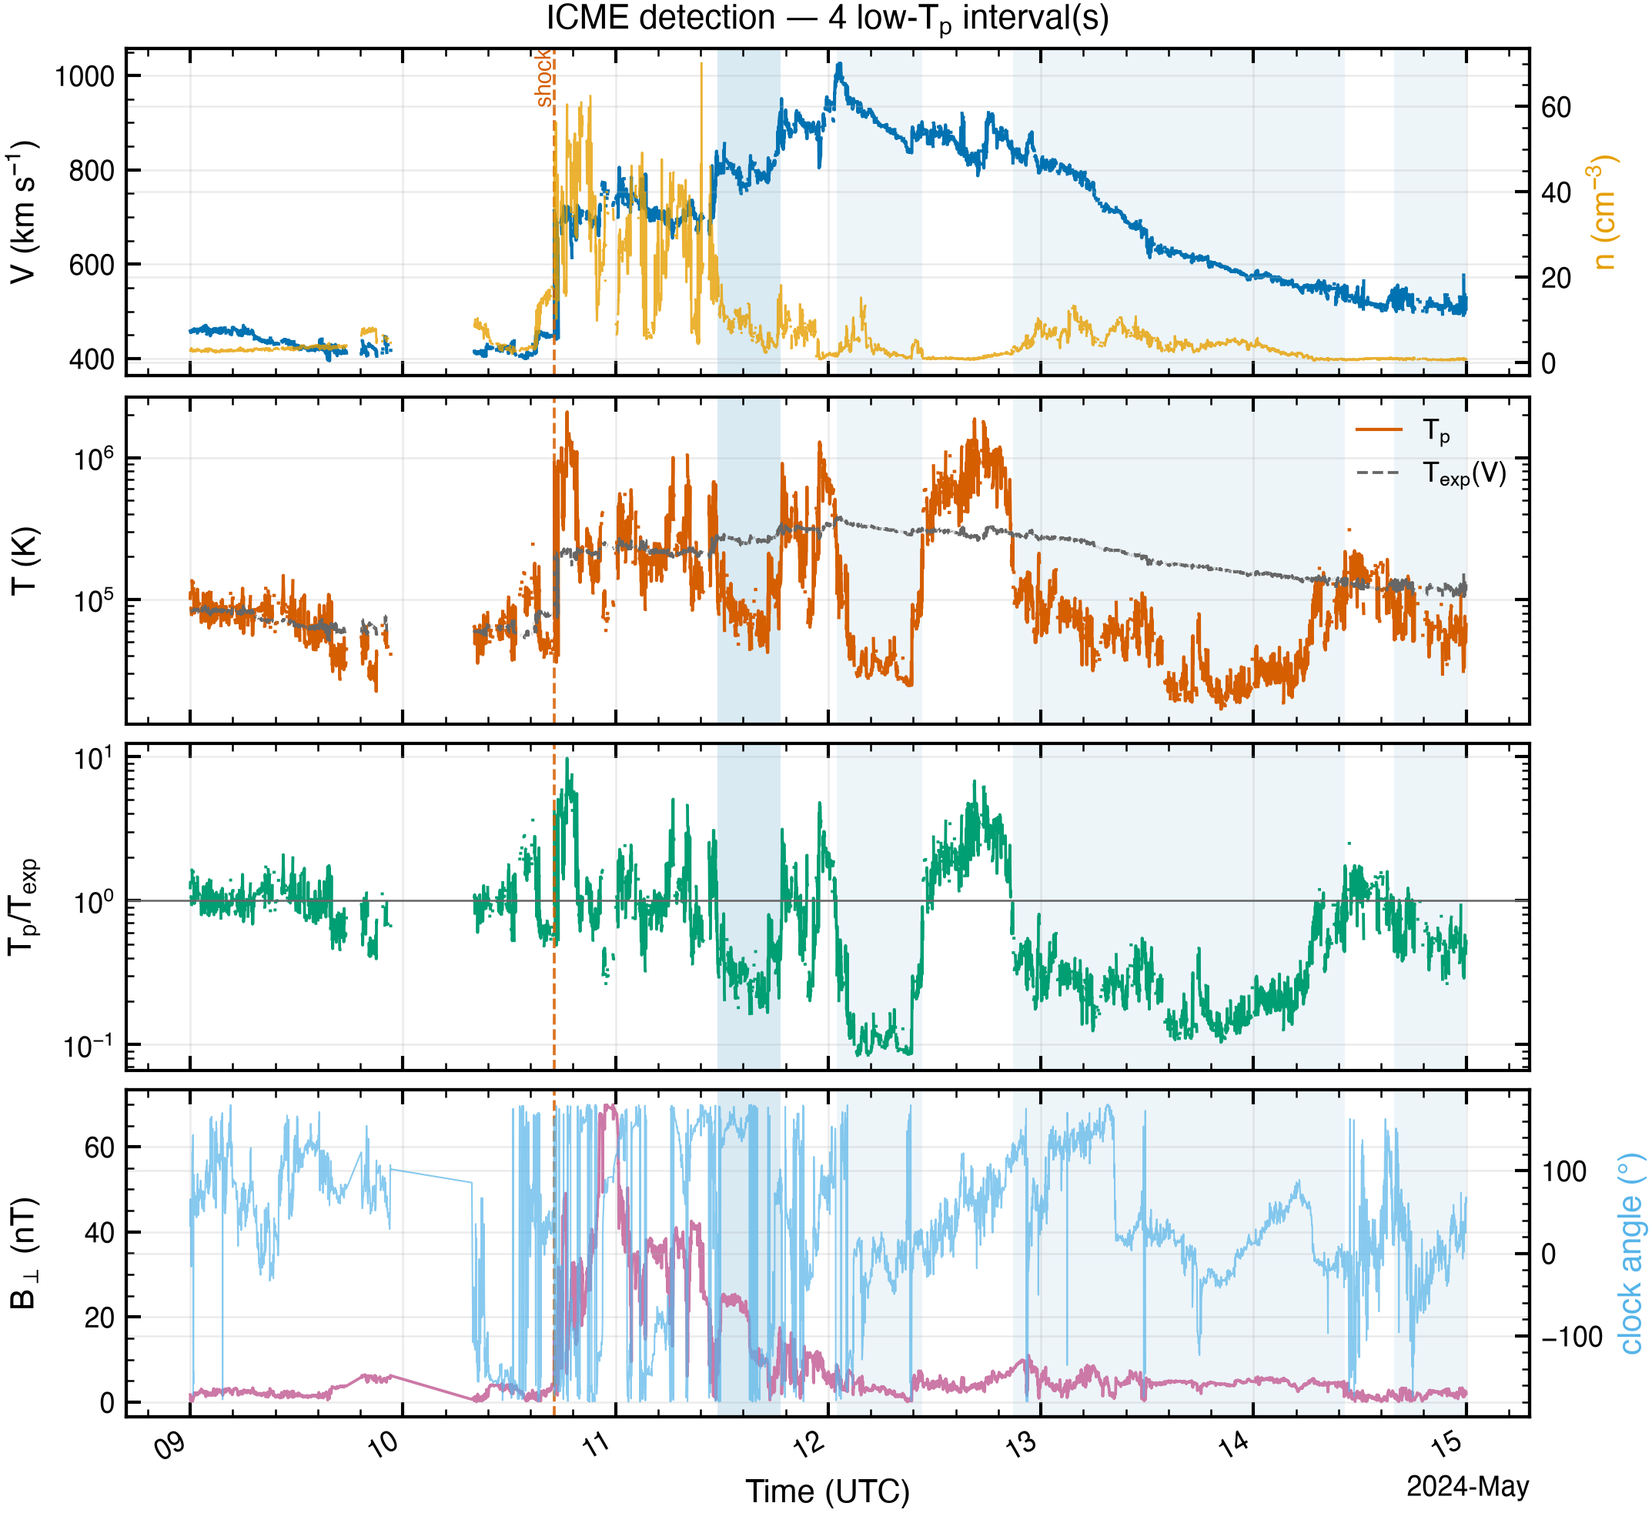
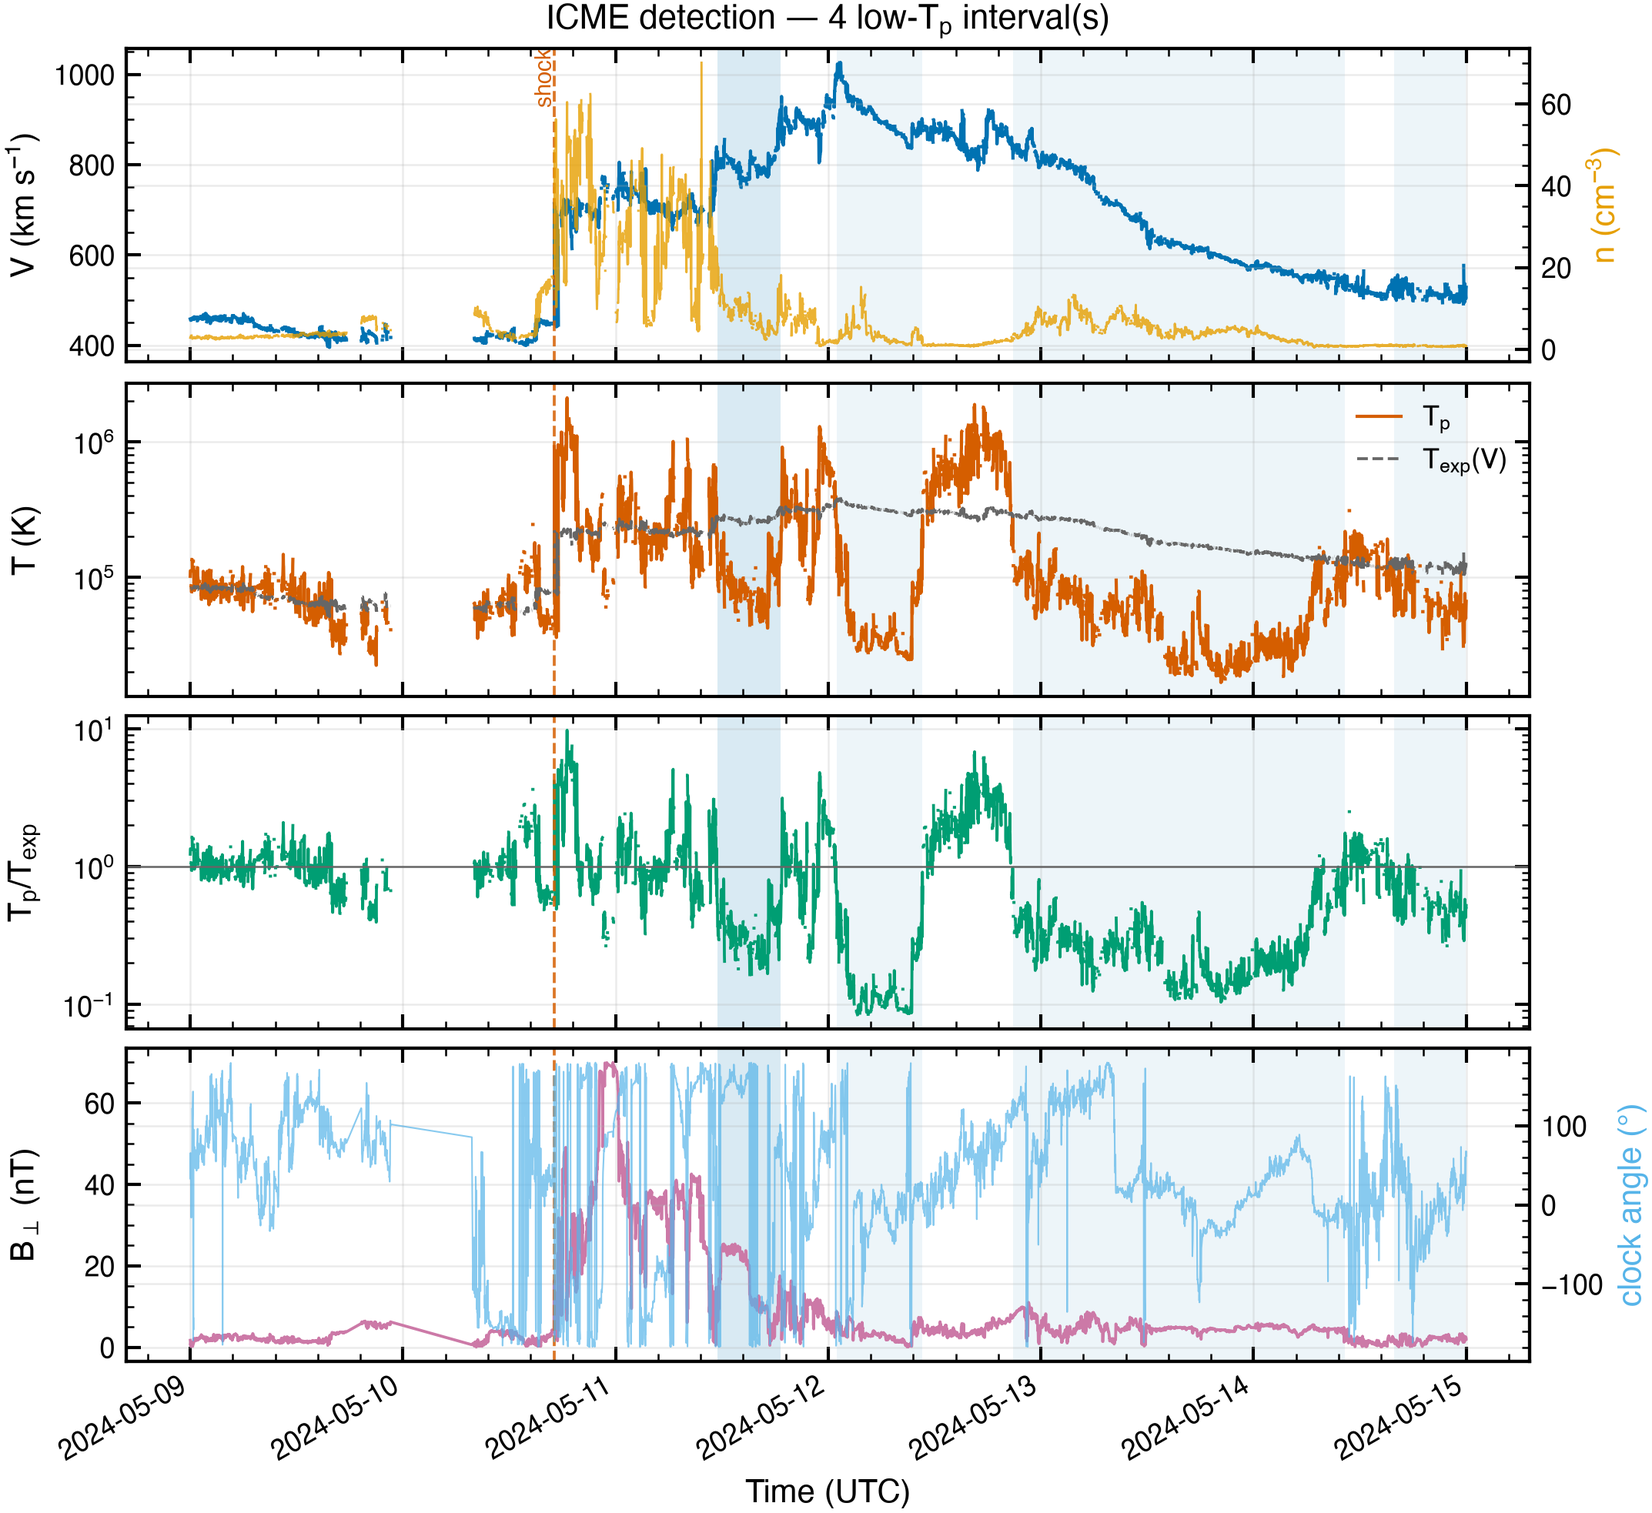
analysis: same claim audit on the May reproduction
Four claims of the same shape as the ones corrected in the October analysis:
statements that reach one step past what was measured.

1. THE SHEATH ATTRIBUTION now carries its population context and its rate
   check. Re-ran S6_icme under the corrected detect_icme: the numbers are
   unchanged (sheath 2024-05-10 17:05, 18.4 h) because the May window is
   narrow enough that the first shock IS the driving one — but that was luck,
   not design, and worth confirming rather than assuming. The attribution now
   also states that the sheath wins on RATE as well as total (20.62 against
   12.49 nT/h), so it is not the longer interval accumulating more, and links
   the 8-sheath/8-ejecta population result so the single event is not read as
   a pattern.

2. "EVERY MEASURED PLANE-OF-SKY SPEED LANDS BELOW ITS CONE FIT" was an n=2
   "every". Added a third case from outside the analysis: the 2024-10-03 X9.0
   CME measures 667.9 km/s plane-of-sky against DONKI cone fits of 822 and
   863. Three for three, now stated as a direction rather than a law. Also
   softened "would have meant the tracker locked onto something other than
   the front" — a cone fit is a model fit with its own error and can be wrong
   too.

3. "THAT AGREEMENT IS INDEPENDENT, NOT CIRCULAR" for the launch-time
   extrapolation matching the flare onset. Not fully independent: the search
   window was opened at the flare peak, so the frames that produced the fit
[…]

diff --git a/users/cayoung/analyses/2024-05-gannon-notebook-repro/render_report.py b/users/cayoung/analyses/2024-05-gannon-notebook-repro/render_report.py
@@ -311,12 +311,19 @@ add(f"\nAudits: `{aud('S4_track_cme1')}`/`{aud('S4_fit_cme1')}` and "
     f"`{aud('S4_track_cme2')}`/`{aud('S4_fit_cme2')}`. The position angles "
     "were chosen automatically, by scoring sectors on monotonic outward "
     "motion rather than on scatter.\n")
-add("**The launch-time column is the check that the tracker found the "
+add("**The launch-time column is a check that the tracker found the "
     "eruption and not a streamer.** The fit extrapolates back to 1 R⊙ at "
     f"{str(g('S4_fit_cme1','extrapolated_launch_1rsun'))[11:19]} for CME 1 "
     f"and {str(g('S4_fit_cme2','extrapolated_launch_1rsun'))[11:19]} for "
     "CME 2 — each within minutes of its flare's onset. The tracker never "
-    "sees the X-ray data, so that agreement is independent, not circular.\n")
+    "reads the X-ray series, and the extrapolation follows from the fitted "
+    "heights alone.\n")
+add("**It is not a fully independent confirmation, though.** The search "
+    "window was opened at the flare peak (see below), so the frames that "
+    "produced the fit were selected using the very time the extrapolation "
+    "is being compared against. A badly wrong tracker would still have to "
+    "produce a wrong slope to miss, so the check has teeth — but call it a "
+    "consistency check rather than an independent one.\n")
 add("**Two things had to be got right, and both failed the other way "
     "first.** The noise reference has to be the same radius at other "
     "position angles: an outer-annulus σ is contaminated once the CME "
@@ -345,13 +352,18 @@ for tag, name in (("cme1", "CME 1"), ("cme2", "CME 2")):
         + (f"{fmt(min(c),4)}–{fmt(max(c),4)} km s⁻¹ ({len(c)} fits)"
            if c else "—")
         + f" | {_NB[tag]} km s⁻¹ |")
-add("\n**Every measured plane-of-sky speed lands below its cone fit, and "
-    "that is the expected result, not a discrepancy.** Both of these are "
-    "Earth-directed halos, so the plane-of-sky projection sees the front "
-    "edge-on and understates the radial speed — the measurement is a lower "
-    "bound by construction. A plane-of-sky speed coming out *above* a cone "
-    "fit would have meant the tracker had locked onto something other than "
-    "the front. `run_validation.py cmetrack` pins that inequality.\n")
+add("\n**Both measured plane-of-sky speeds land below their cone fits, "
+    "which is the expected direction.** These are Earth-directed halos, so "
+    "the plane-of-sky projection sees the front edge-on and understates the "
+    "radial speed — the measurement is a lower bound by construction. A "
+    "third case outside this analysis agrees: the 2024-10-03 X9.0 CME "
+    "measures 667.9 km s⁻¹ plane-of-sky against DONKI cone fits of 822 and "
+    "863 km s⁻¹ for the same event (audit `477ff359b0af`).\n")
+add("Three for three is a direction, not a law. A plane-of-sky speed above "
+    "a cone fit would be worth investigating — most likely a tracker locked "
+    "onto the wrong feature, but a cone fit is a model fit with its own "
+    "error and can also be wrong. `run_validation.py cmetrack` pins the "
+    "inequality for the 2024-05-08 event so a regression would surface it.\n")
 add("So the notebook's 950 and 1100 km s⁻¹ are defensible numbers for the "
     "radial speed — they sit inside the cone-model distribution — but its "
     "own code could not have produced them, and they are not what a "
@@ -488,11 +500,18 @@ add("**DSCOVR's Faraday cup under-reads this storm, and its own "
     "those minutes. Restricting to quality-0 samples changes the maximum "
     "not at all. The only signal in the file is "
     f"`reduced_proton_quality_flag`, set on **{(_frac or 0) * 100:.0f}%** of "
-    "this window. So DSCOVR plasma is good for density and structure and "
-    "is the wrong source for a storm speed peak — which is also why the "
-    "earlier refusal was worth keeping rather than papering over with SWPC "
-    "real-time. `run_validation.py dscovrl2` pins the under-read as well as "
-    "the capability, so a reprocessing that fixes it will fail the check.\n")
+    "this window. It is the wrong source for a storm speed peak — which is "
+    "also why the earlier refusal was worth keeping rather than papering "
+    "over with SWPC real-time. `run_validation.py dscovrl2` pins the "
+    "under-read as well as the capability, so a reprocessing that fixes it "
+    "will fail the check.\n")
+add("**Whether its density is equally affected is untested here.** The cup "
+    f"reports {fmt(g('S5x_n_dscovr_l2','value'),4)} cm⁻³, the highest of any "
+    "route, and a flag saying the proton fit was degraded is a reason to "
+    "doubt every moment derived from that fit, not only the speed. Nothing "
+    "above establishes the density is sound — it simply was not the quantity "
+    "checked against another spacecraft. Treat it with the same suspicion "
+    "until it is.\n")
 add("**|B| is the check that the routes agree.** Five routes across three "
     "spacecraft (ACE, DSCOVR, Wind — OMNI is merged from them, not "
     "independent) put the maximum inside "
@@ -580,6 +599,27 @@ if ic:
             "without separating the two, and the distinction matters for "
             "forecasting: sheath Bz is not predictable from a cone-model CME "
             "fit.\n")
+        _sh = ((ST.get("S6_icme") or {}).get("sheath") or {}).get("field") or {}
+        _ej = (ST.get("S6_icme") or {}).get("ejecta_field") or {}
+        add("The attribution survives the check that matters most for it — "
+            "**the sheath wins on the rate as well as the total**: "
+            f"{fmt(_sh.get('south_nT_per_hour'),4)} against "
+            f"{fmt(_ej.get('south_nT_per_hour'),4)} nT of southward field "
+            "per hour, so it is not simply the longer interval "
+            f"({fmt(_sh.get('hours'),3)} h against {fmt(_ej.get('hours'),3)}) "
+            "accumulating more. `detect_icme` compares totals by default "
+            "because ring-current injection integrates VBs, and a total "
+            "rewards duration; where the two measures disagree the label "
+            "alone is not the answer.\n")
+        add("**And do not read a pattern into it.** "
+            "`../sheath-vs-ejecta/` runs the same attribution across every "
+            "intense storm with usable L1 coverage and finds **8 sheath "
+            "against 8 ejecta** — even. Sheath-driving dominates only at the "
+            "deep end (6 of 8 below −250 nT), which is an established result "
+            "(Gonzalez et al. 2011 treat superintense storms separately for "
+            "this reason). That study also found three defects in "
+            "`detect_icme` affecting these numbers; they are fixed and the "
+            "figures above are the corrected ones.\n")
     if ok("S6_lit"):
         add("**Cross-checked against the refereed record** (ADS, audit "
             f"`{aud('S6_lit')}`, {g('S6_lit','n_results')} papers):\n")

diff --git a/users/cayoung/analyses/2024-05-gannon-notebook-repro/analysis.md b/users/cayoung/analyses/2024-05-gannon-notebook-repro/analysis.md
@@ -158,7 +158,9 @@ Here the front is **measured**. `track_cme_front` locates the leading edge in ea
 
 Audits: `26a7eceb7bab`/`fb5dca15916c` and `058a6b9a5875`/`504ed39d6417`. The position angles were chosen automatically, by scoring sectors on monotonic outward motion rather than on scatter.
 
-**The launch-time column is the check that the tracker found the eruption and not a streamer.** The fit extrapolates back to 1 R⊙ at 04:53:24 for CME 1 and 08:57:12 for CME 2 — each within minutes of its flare's onset. The tracker never sees the X-ray data, so that agreement is independent, not circular.
+**The launch-time column is a check that the tracker found the eruption and not a streamer.** The fit extrapolates back to 1 R⊙ at 04:53:24 for CME 1 and 08:57:12 for CME 2 — each within minutes of its flare's onset. The tracker never reads the X-ray series, and the extrapolation follows from the fitted heights alone.
+
+**It is not a fully independent confirmation, though.** The search window was opened at the flare peak (see below), so the frames that produced the fit were selected using the very time the extrapolation is being compared against. A badly wrong tracker would still have to produce a wrong slope to miss, so the check has teeth — but call it a consistency check rather than an independent one.
 
 **Two things had to be got right, and both failed the other way first.** The noise reference has to be the same radius at other position angles: an outer-annulus σ is contaminated once the CME reaches it, which inflated the noise 4.6× and suppressed every detection. And the search window has to open at the eruption, not an hour later — C2 sees only 2.4–5.8 R⊙, so a front already at the outer edge cannot be tracked. Opening at the flare peak took CME 1 from 3 height points to 5 and turned CME 2 from an untrackable non-monotonic scatter into a clean track. Both details are recorded in `skills/methods/cme_analysis.md`.
 
@@ -170,7 +172,9 @@ Audits: `26a7eceb7bab`/`fb5dca15916c` and `058a6b9a5875`/`504ed39d6417`. The pos
 | CME 1 | **434.7 km s⁻¹** | 729–870 km s⁻¹ (2 fits) | 950 km s⁻¹ |
 | CME 2 | **869.6 km s⁻¹** | 1330–1561 km s⁻¹ (2 fits) | 1100 km s⁻¹ |
 
-**Every measured plane-of-sky speed lands below its cone fit, and that is the expected result, not a discrepancy.** Both of these are Earth-directed halos, so the plane-of-sky projection sees the front edge-on and understates the radial speed — the measurement is a lower bound by construction. A plane-of-sky speed coming out *above* a cone fit would have meant the tracker had locked onto something other than the front. `run_validation.py cmetrack` pins that inequality.
+**Both measured plane-of-sky speeds land below their cone fits, which is the expected direction.** These are Earth-directed halos, so the plane-of-sky projection sees the front edge-on and understates the radial speed — the measurement is a lower bound by construction. A third case outside this analysis agrees: the 2024-10-03 X9.0 CME measures 667.9 km s⁻¹ plane-of-sky against DONKI cone fits of 822 and 863 km s⁻¹ for the same event (audit `477ff359b0af`).
+
+Three for three is a direction, not a law. A plane-of-sky speed above a cone fit would be worth investigating — most likely a tracker locked onto the wrong feature, but a cone fit is a model fit with its own error and can also be wrong. `run_validation.py cmetrack` pins the inequality for the 2024-05-08 event so a regression would surface it.
 
 So the notebook's 950 and 1100 km s⁻¹ are defensible numbers for the radial speed — they sit inside the cone-model distribution — but its own code could not have produced them, and they are not what a plane-of-sky fit measures. The two quantities are not interchangeable, which is the part the notebook elides.
 
@@ -275,7 +279,9 @@ Four things follow, and they are the reason for running seven routes instead of 
 
 **Cadence sets the peak, not instrument quality.** Density climbs 41.9 → 60.93 → 70.07 cm⁻³ as the cadence goes hourly → 64-s → 1-min. An hourly average cannot resolve a shock; the peak it reports is a smoothed one. Every value in that column is a correct measurement of a different thing.
 
-**DSCOVR's Faraday cup under-reads this storm, and its own `overall_quality` flag does not catch it.** Its speed maximum is 826.2 km s⁻¹ against OMNI's 1026 — and at 2024-05-12 01:00, when OMNI and ACE both read near 1000 km s⁻¹, the cup reports ~470 km s⁻¹ with `overall_quality = 0` on every one of those minutes. Restricting to quality-0 samples changes the maximum not at all. The only signal in the file is `reduced_proton_quality_flag`, set on **58%** of this window. So DSCOVR plasma is good for density and structure and is the wrong source for a storm speed peak — which is also why the earlier refusal was worth keeping rather than papering over with SWPC real-time. `run_validation.py dscovrl2` pins the under-read as well as the capability, so a reprocessing that fixes it will fail the check.
+**DSCOVR's Faraday cup under-reads this storm, and its own `overall_quality` flag does not catch it.** Its speed maximum is 826.2 km s⁻¹ against OMNI's 1026 — and at 2024-05-12 01:00, when OMNI and ACE both read near 1000 km s⁻¹, the cup reports ~470 km s⁻¹ with `overall_quality = 0` on every one of those minutes. Restricting to quality-0 samples changes the maximum not at all. The only signal in the file is `reduced_proton_quality_flag`, set on **58%** of this window. It is the wrong source for a storm speed peak — which is also why the earlier refusal was worth keeping rather than papering over with SWPC real-time. `run_validation.py dscovrl2` pins the under-read as well as the capability, so a reprocessing that fixes it will fail the check.
+
+**Whether its density is equally affected is untested here.** The cup reports 84.92 cm⁻³, the highest of any route, and a flag saying the proton fit was degraded is a reason to doubt every moment derived from that fit, not only the speed. Nothing above establishes the density is sound — it simply was not the quantity checked against another spacecraft. Treat it with the same suspicion until it is.
 
 **|B| is the check that the routes agree.** Five routes across three spacecraft (ACE, DSCOVR, Wind — OMNI is merged from them, not independent) put the maximum inside 72.22–76.08 nT within about ten minutes of each other, and DSCOVR's Level-2 Bz (-50.93 nT) sits inside the ACE/Wind/OMNI bracket. The magnetometer has no problem; only the cup does. That is what makes the density spread a sampling effect and the speed row an instrument fault.
 
@@ -312,9 +318,13 @@ One of the notebook's stated numbers does not survive measurement: dynamic press
 
 ### Was it a magnetic cloud?
 
-`detect_icme` finds an ejecta interval at **2024-05-11 11:31 → 2024-05-11 18:40 UT** (7.2 h, mean speed 803.3 km s⁻¹, minimum temperature ratio 0.164; audit `576173c1dd1a`).
+`detect_icme` finds an ejecta interval at **2024-05-11 11:31 → 2024-05-11 18:40 UT** (7.2 h, mean speed 803.3 km s⁻¹, minimum temperature ratio 0.164; audit `dfc40e7f0e95`).
 
 **That interval begins 9.3 h AFTER the SYM-H minimum**, so it is not what drove the main phase. The main phase ran 2024-05-10 18:03 → 2024-05-11 02:14 UT, entirely before the ejecta signature — this storm's record depth was driven by the compressed **sheath** ahead of the ejecta, not by the flux rope itself. The notebook attributes the storm to the CME arrival without separating the two, and the distinction matters for forecasting: sheath Bz is not predictable from a cone-model CME fit.
+
+The attribution survives the check that matters most for it — **the sheath wins on the rate as well as the total**: 20.62 against 12.49 nT of southward field per hour, so it is not simply the longer interval (18.4 h against 7.2) accumulating more. `detect_icme` compares totals by default because ring-current injection integrates VBs, and a total rewards duration; where the two measures disagree the label alone is not the answer.
+
+**And do not read a pattern into it.** `../sheath-vs-ejecta/` runs the same attribution across every intense storm with usable L1 coverage and finds **8 sheath against 8 ejecta** — even. Sheath-driving dominates only at the deep end (6 of 8 below −250 nT), which is an established result (Gonzalez et al. 2011 treat superintense storms separately for this reason). That study also found three defects in `detect_icme` affecting these numbers; they are fixed and the figures above are the corrected ones.
 
 **Cross-checked against the refereed record** (ADS, audit `4f396182d540`, 3 papers):
 

diff --git a/skills/missions/dscovr.md b/skills/missions/dscovr.md
@@ -48,7 +48,7 @@
 - Its maximum over 05-10 → 05-13 is **826 km/s** against OMNI's 1026 and ACE's 1004. Restricting to `overall_quality == 0` changes nothing; the maximum is 826 either way.
 - The only header signal is **`reduced_proton_quality_flag`**, set on **58%** of the storm window. `fetch_dscovr_l2` reports it as `reduced_proton_quality_fraction` and puts a warning in `note` above 10%.
 
-**So: DSCOVR plasma is usable for context and for density/temperature structure, and is the wrong source for a storm speed peak.** Use OMNI 1-min or ACE/Wind for that, and cross-check any DSCOVR speed against one of them before quoting it. The magnetometer has no such problem — its |B| (74.5 nT) and Bz (−50.9 nT) sit squarely inside the ACE/Wind/OMNI bracket.
+**So: DSCOVR plasma is the wrong source for a storm speed peak.** Whether the density and temperature from the same fit are sound is NOT established — `reduced_proton_quality_flag` says the proton fit was degraded, and every moment comes from that fit. Only the speed has been checked against another spacecraft. Do not read "the speed is bad, so use the density" out of that; read "one moment is demonstrably wrong and the others are unchecked". Use OMNI 1-min or ACE/Wind for that, and cross-check any DSCOVR speed against one of them before quoting it. The magnetometer has no such problem — its |B| (74.5 nT) and Bz (−50.9 nT) sit squarely inside the ACE/Wind/OMNI bracket.
 
 `valid_ranges` in the result carries the instrument's own declared bounds from the file header (proton speed 189–1111 km/s, density 1–100 cm⁻³). A value pinned at a bound is a saturation, not a measurement.
 
